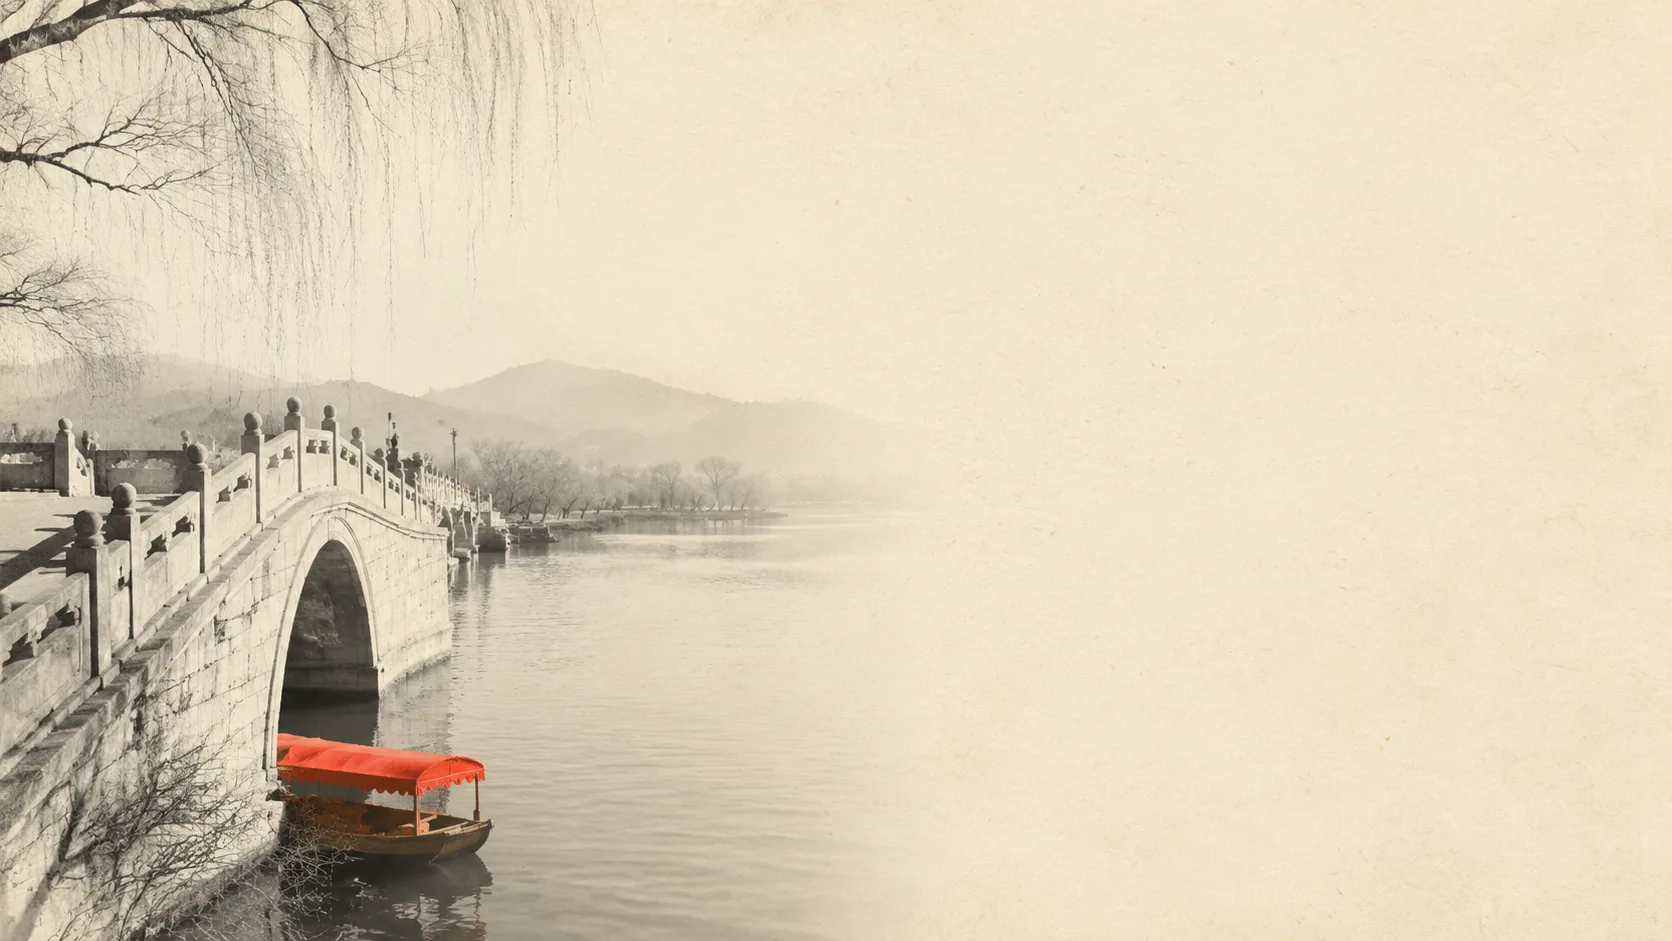
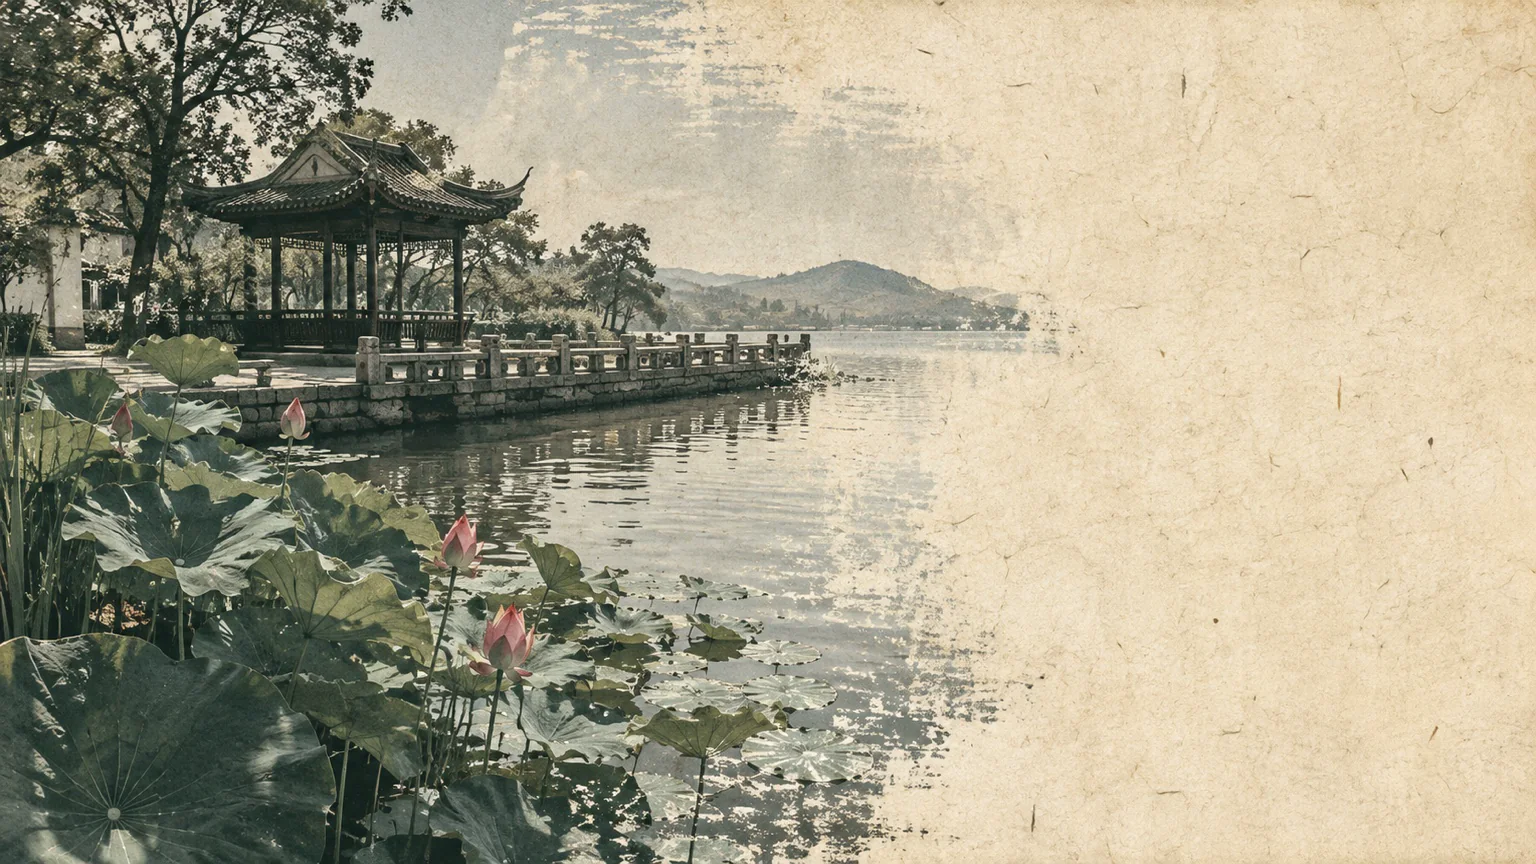
Replace three Hangzhou weather covers

diff --git a/be-a-viewer/city-weather.js b/be-a-viewer/city-weather.js
@@ -118,7 +118,7 @@ const xiamenWeatherCovers = {
 const hangzhouWeatherCovers = {
   clear: {
     src: "/assets/be-a-viewer/weather/hangzhou/clear-broken-bridge.webp",
-    alt: "Broken Bridge over West Lake in clear Hangzhou sunlight on aged paper"
+    alt: "West Lake lotus pond and pavilion in clear Hangzhou sunlight on aged paper"
   },
   partlyCloudy: {
     src: "/assets/be-a-viewer/weather/hangzhou/partly-cloudy-leifeng-pagoda.webp",
@@ -126,11 +126,11 @@ const hangzhouWeatherCovers = {
   },
   overcast: {
     src: "/assets/be-a-viewer/weather/hangzhou/overcast-gongchen-bridge.webp",
-    alt: "Gongchen Bridge over the Grand Canal beneath an overcast Hangzhou sky on aged paper"
+    alt: "Hangzhou stone village beneath an overcast sky on aged paper"
   },
   rain: {
     src: "/assets/be-a-viewer/weather/hangzhou/light-rain-sudi.webp",
-    alt: "Su Causeway in light Hangzhou rain on aged paper"
+    alt: "Hangzhou tea village in light rain on aged paper"
   },
   thunderstorm: {
     src: "/assets/be-a-viewer/weather/hangzhou/thunderstorm-qianjiang-new-city.webp",
